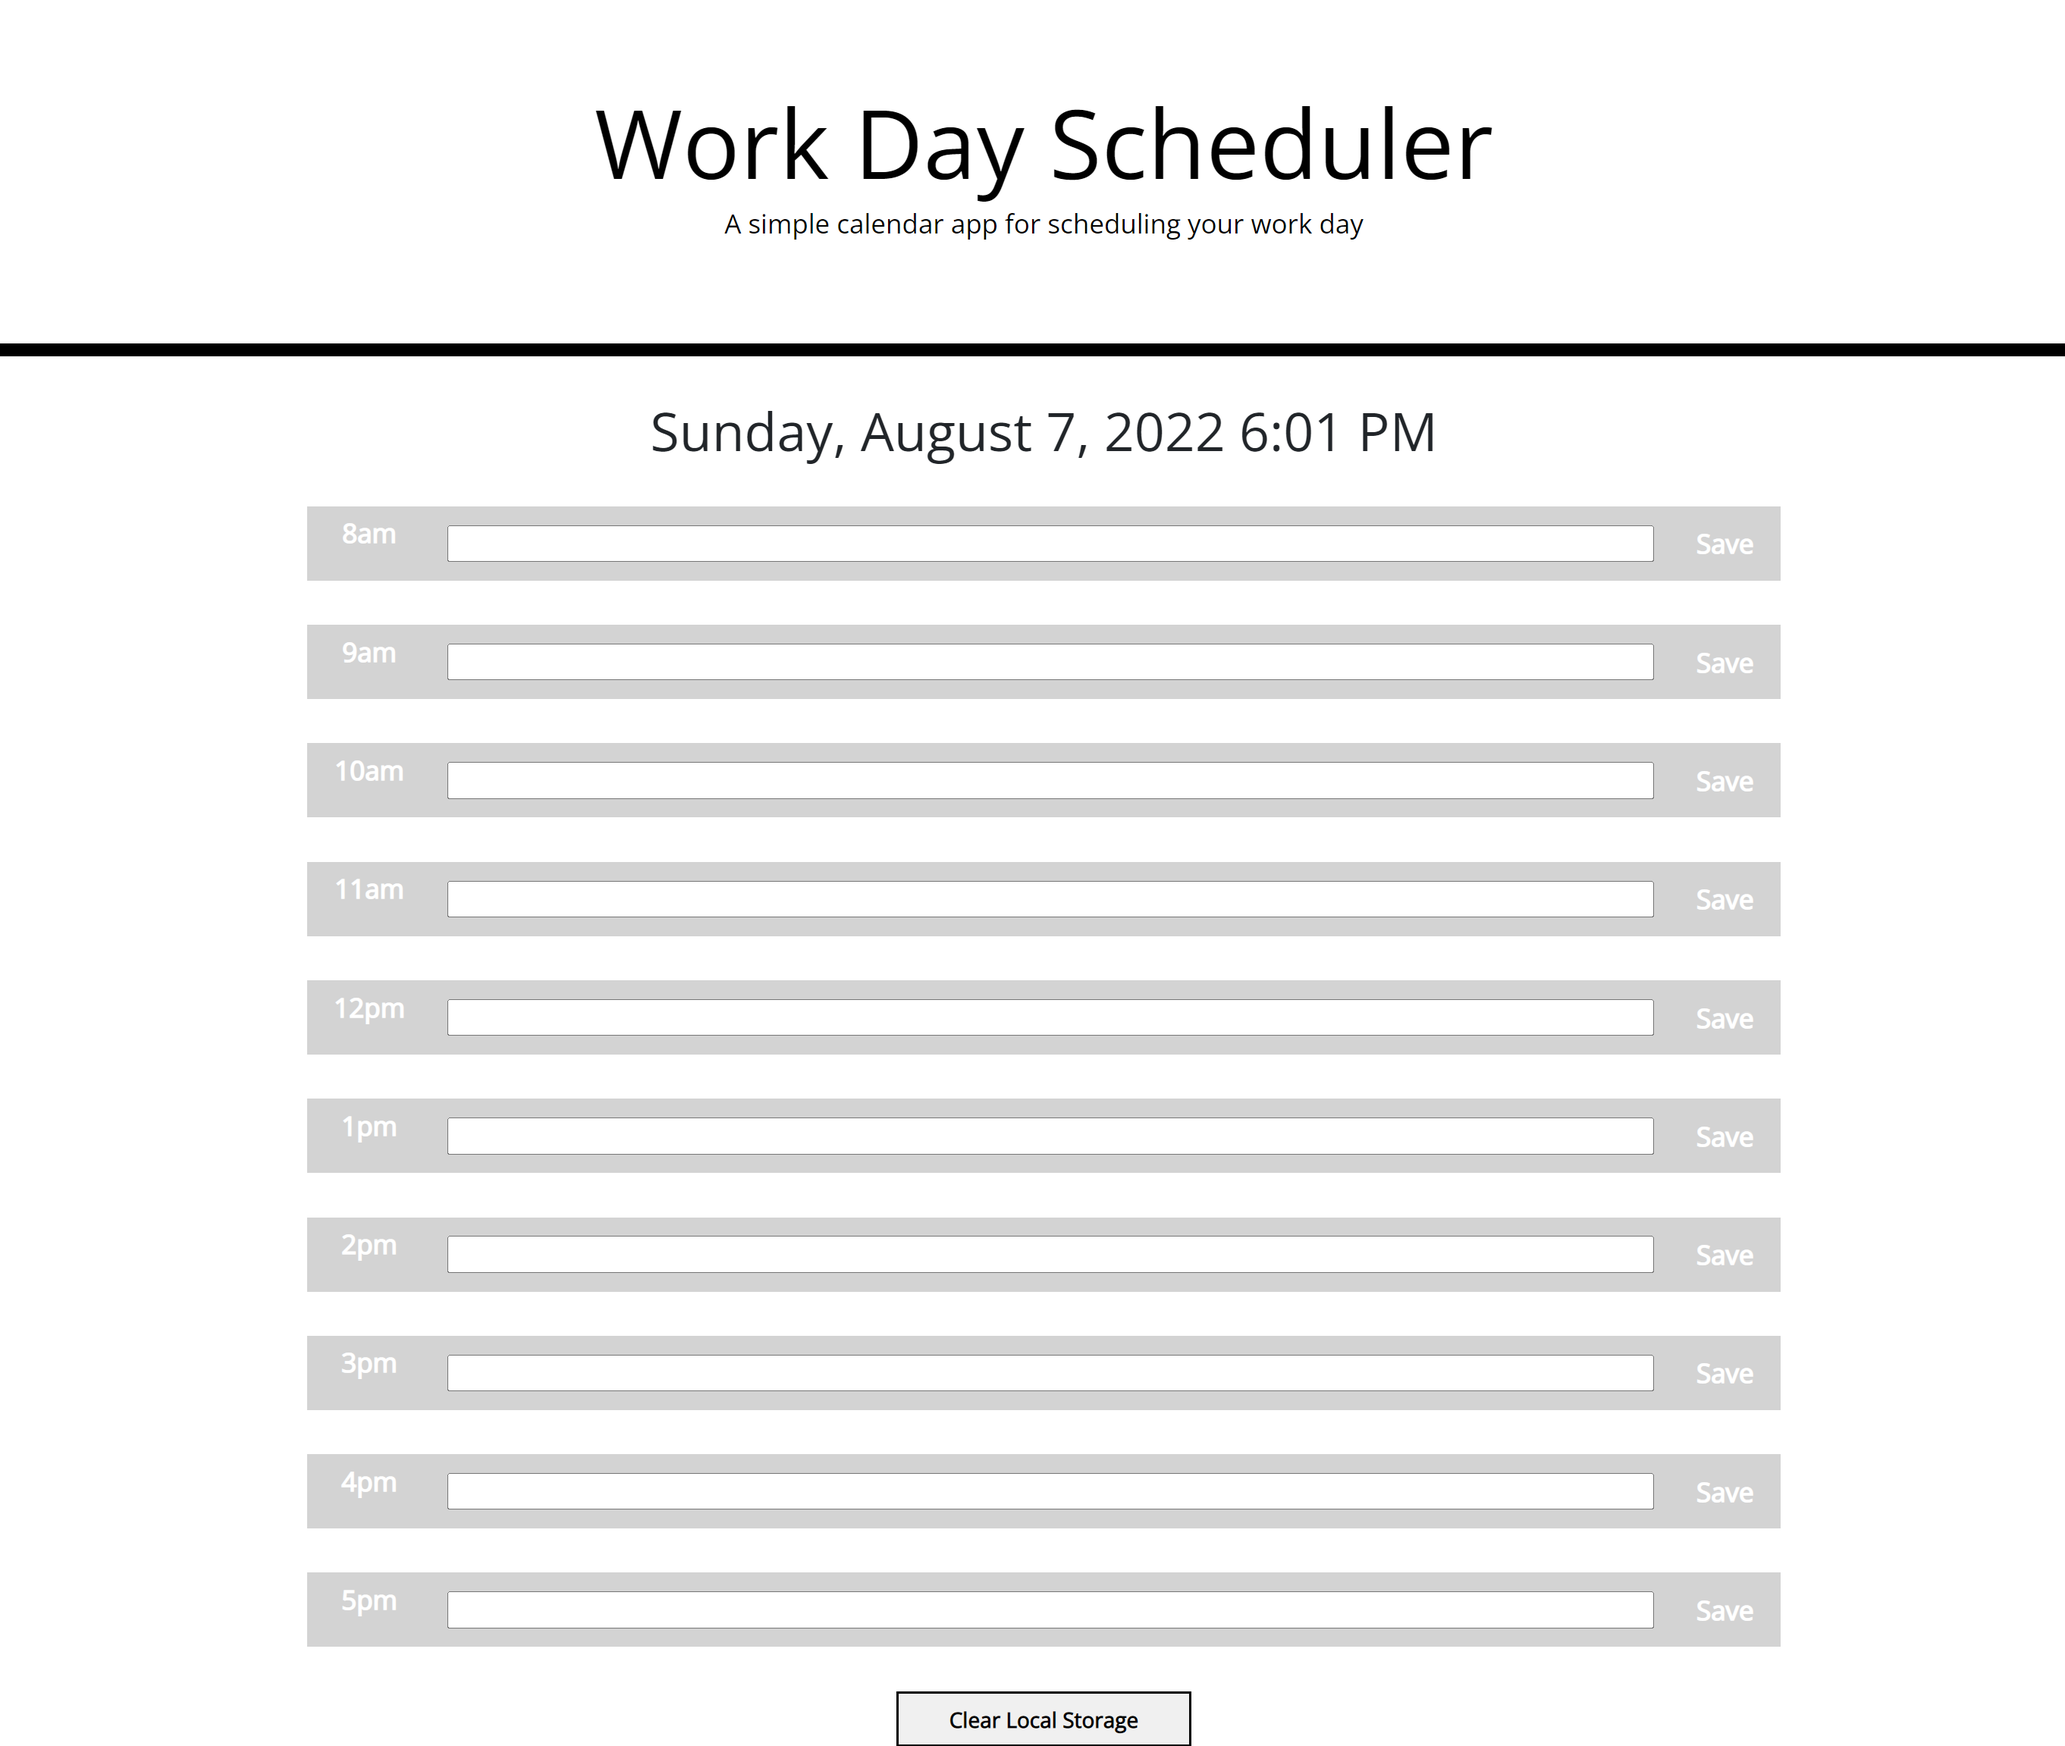
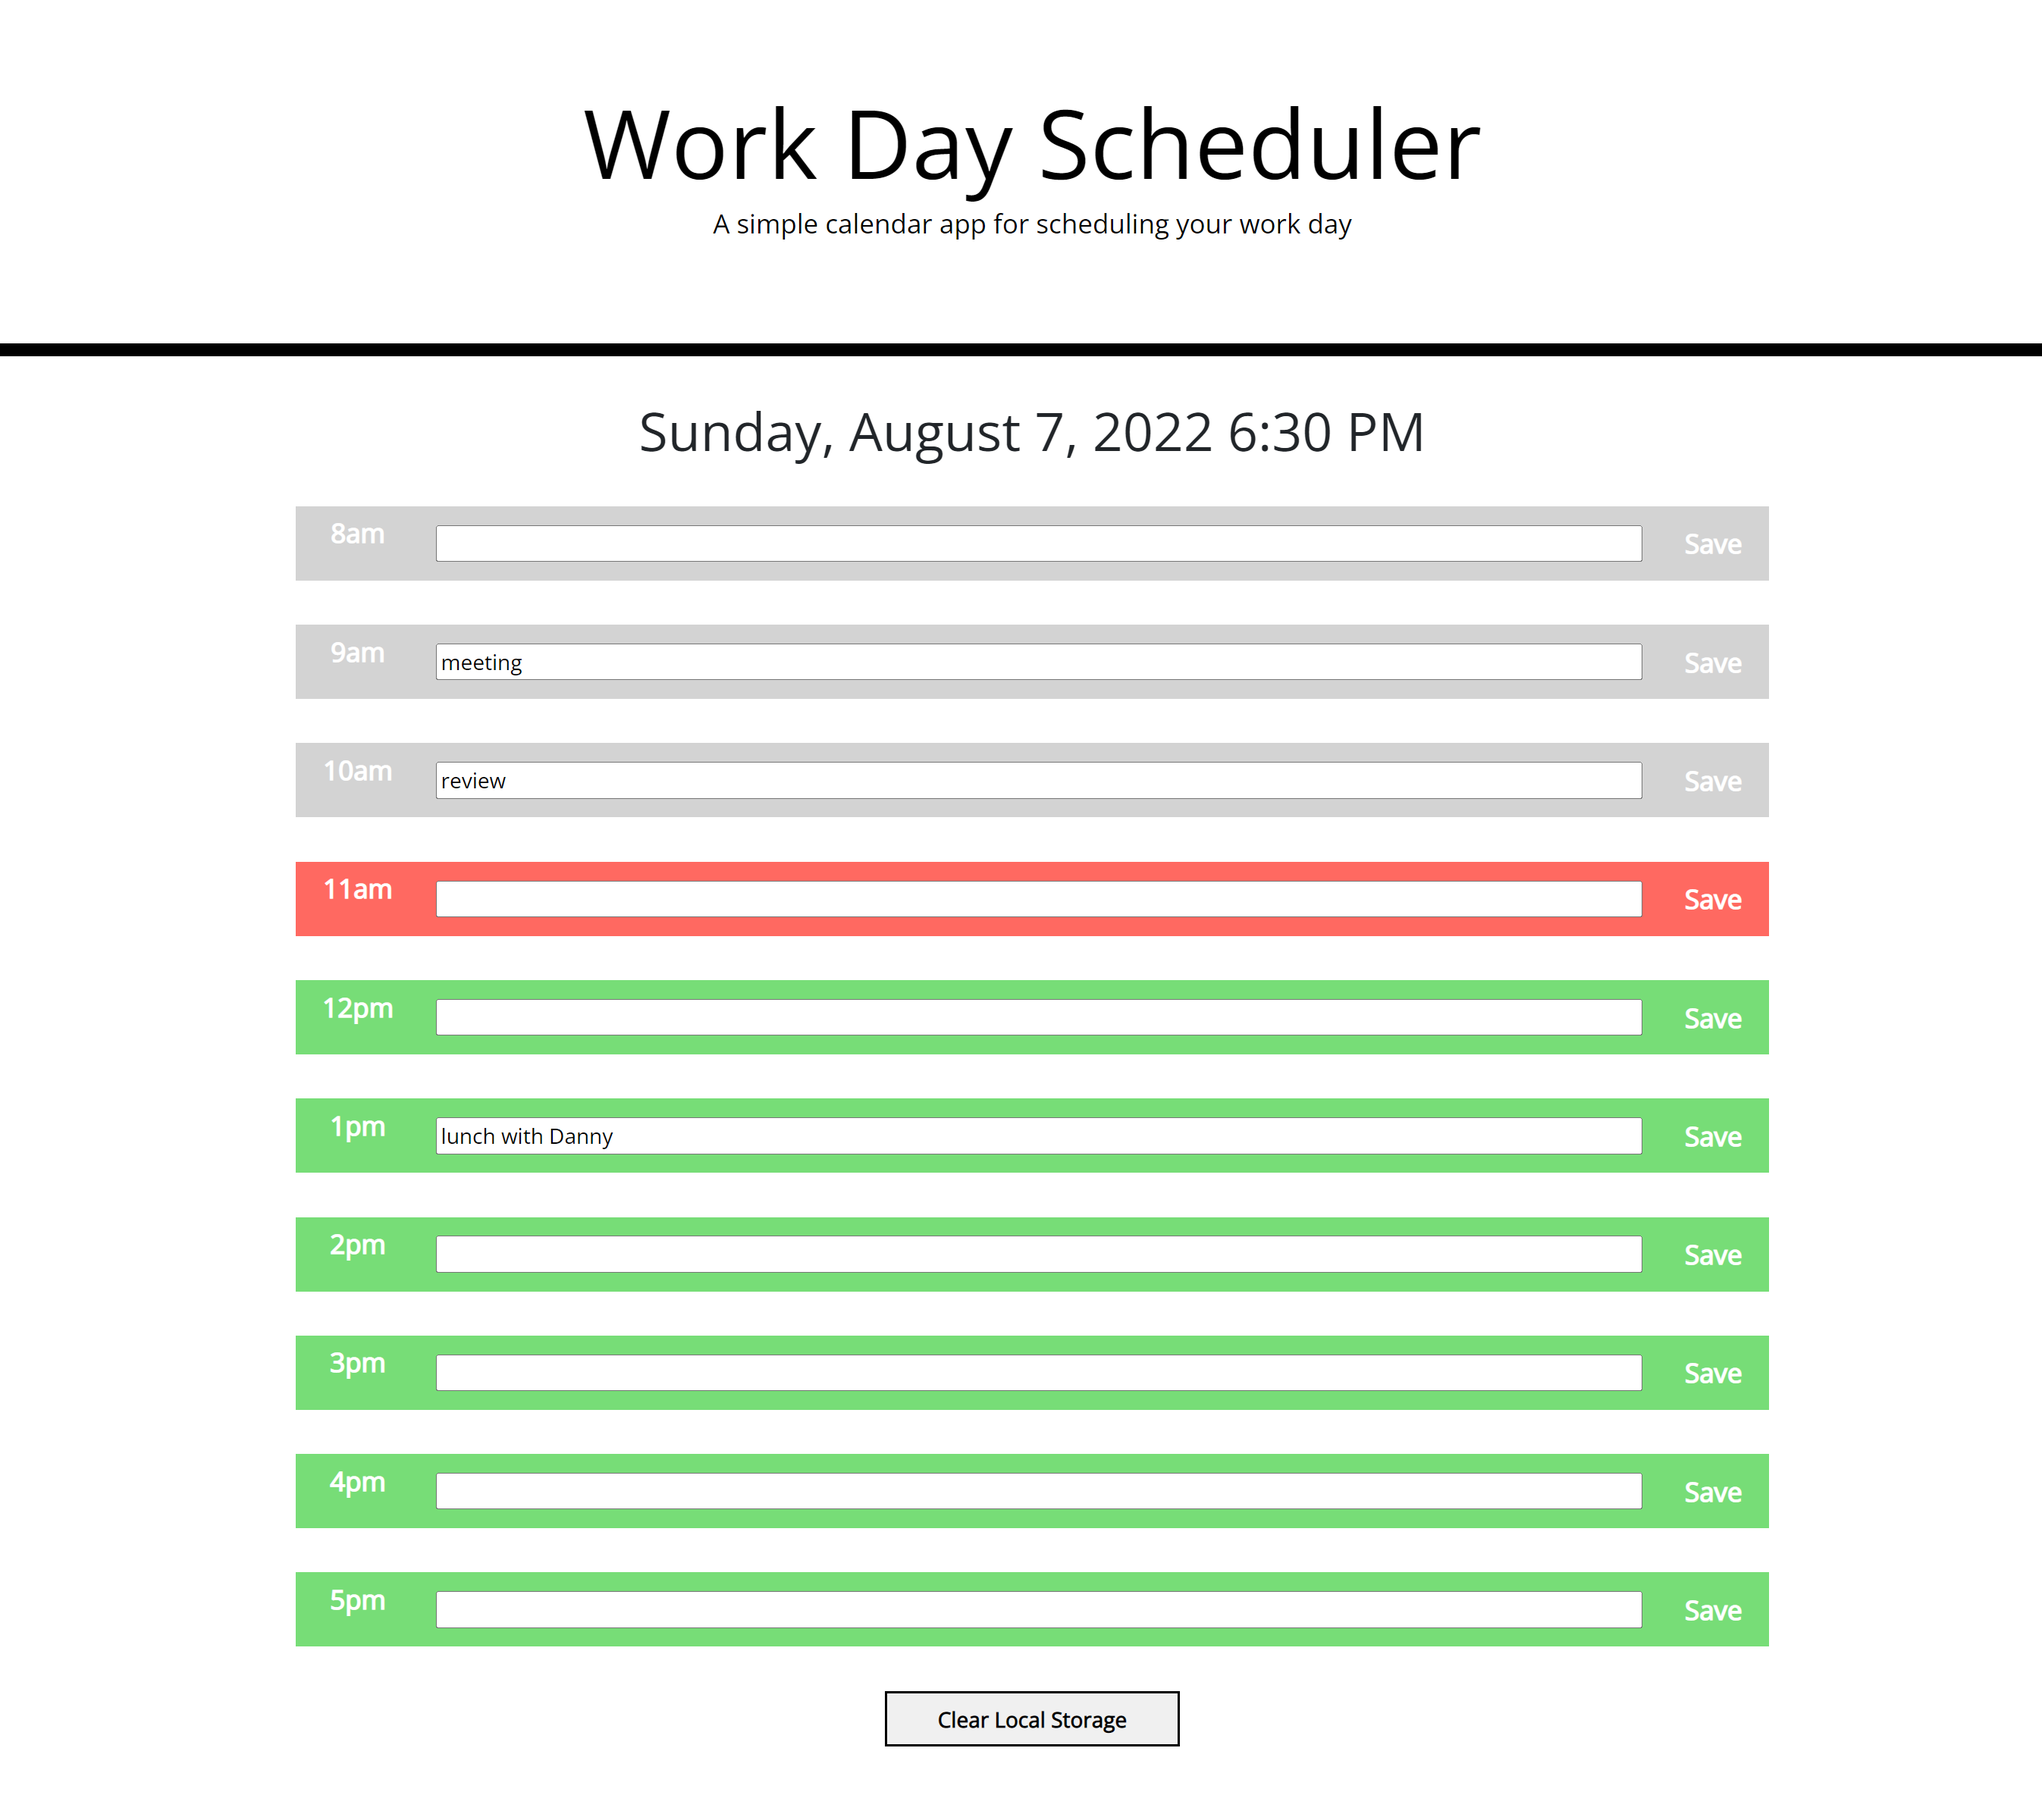
button styles and new finala image

diff --git a/Develop/index.js b/Develop/index.js
@@ -13,7 +13,7 @@ for (var i = 0; i < allTimes.length; i++){
        // past
        allTimes[i].classList.add('past')
        checkStorage(allTimes[i].id) 
-    } else if (allTimes[i].id === currentHour){
+    } else if (allTimes[i].id == currentHour){
         // present
         allTimes[i].classList.add('present')
         checkStorage(allTimes[i].id)   

diff --git a/Develop/style.css b/Develop/style.css
@@ -17,6 +17,10 @@ body {
   width: 20%;
   padding: 1%;
   font-weight: 900;
+  margin-bottom: 5%;
+}
+.container button:hover{
+  background-color: darkgrey;
 }
 
 .column div {
@@ -42,6 +46,12 @@ body {
   /* color: white; */
   font-weight: 900;
   font-size: 20px;
+  
+}
+
+.column div span:hover{
+  cursor: pointer;
+  color: black;
 }
 
 .past {
